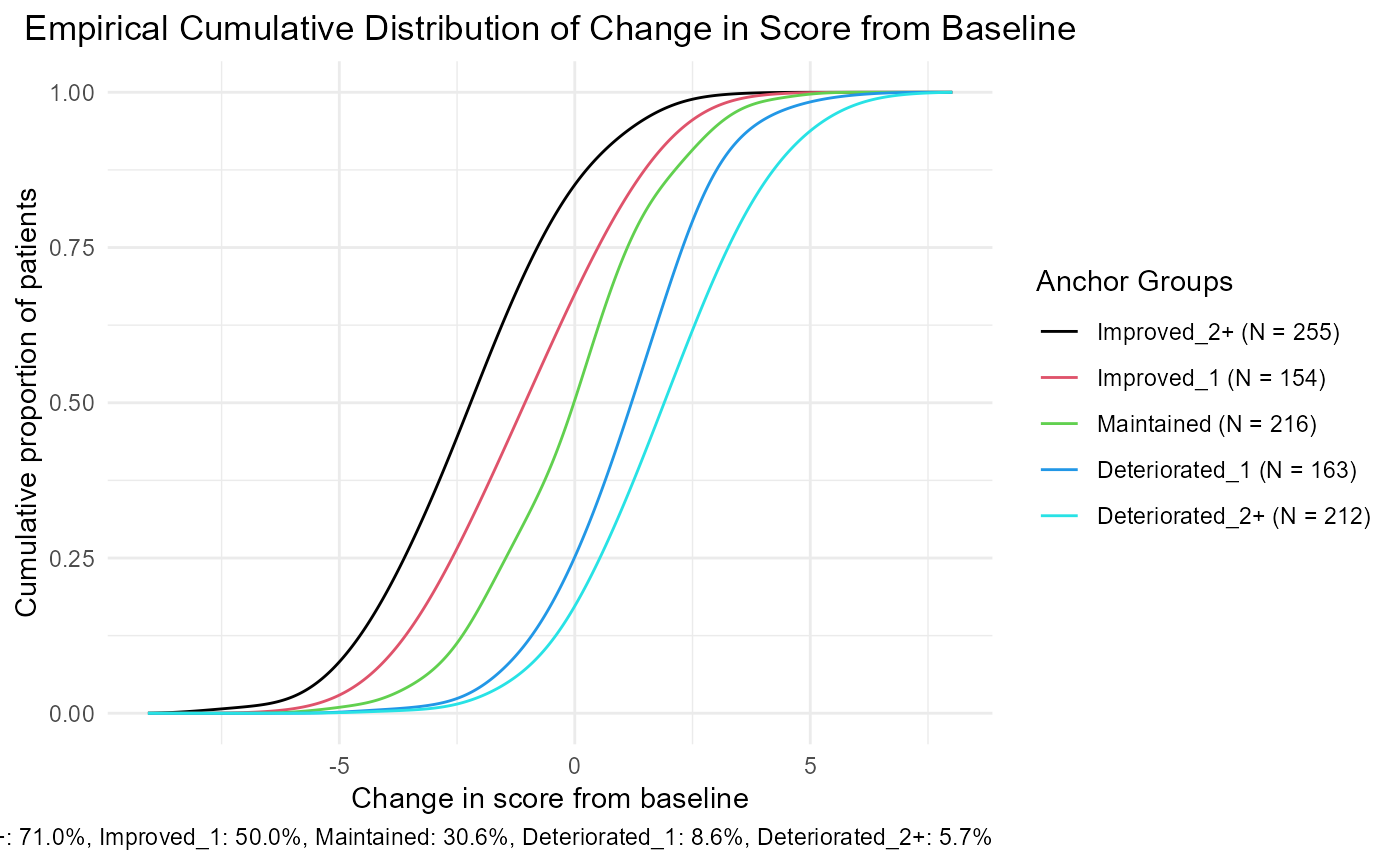
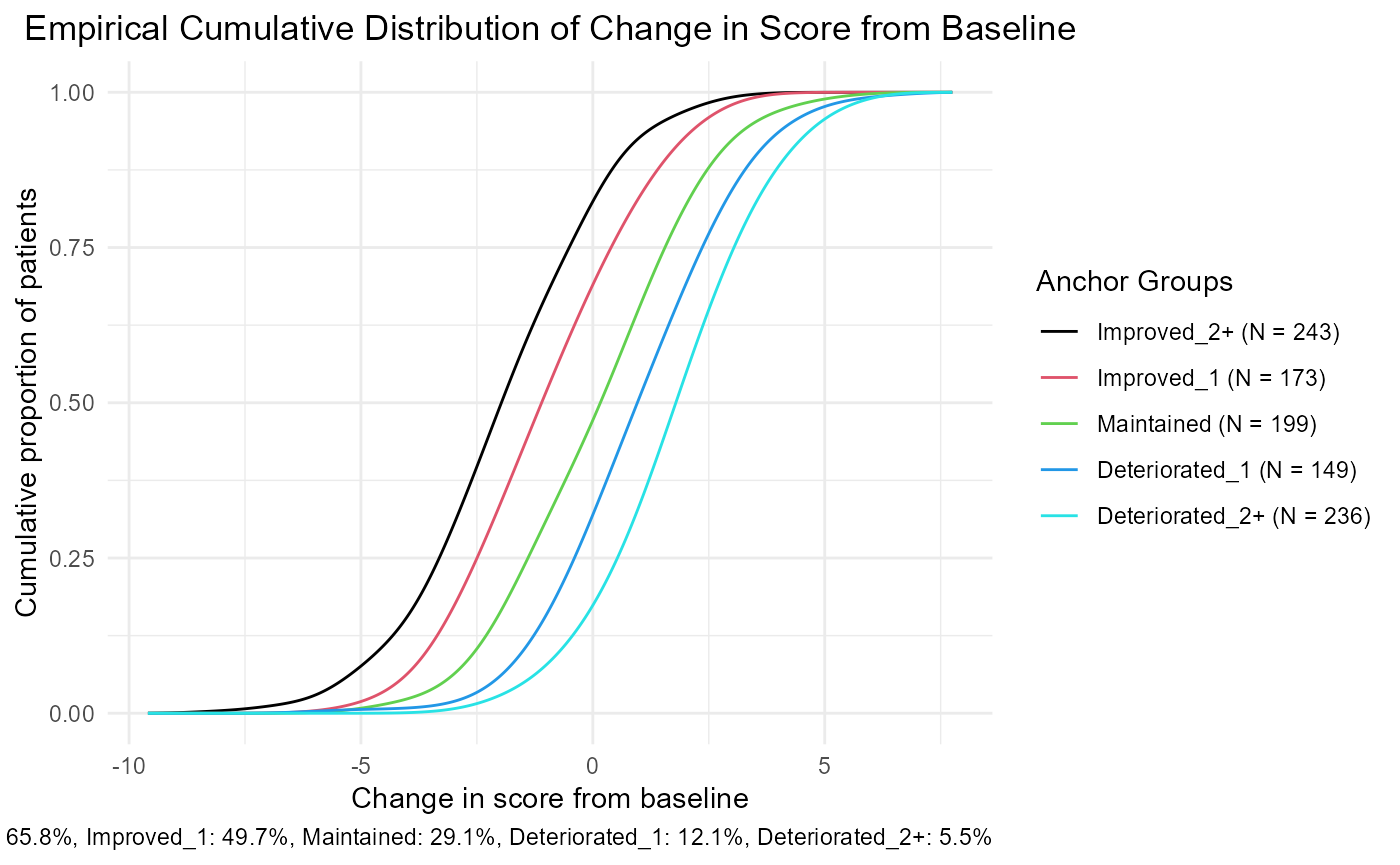
Add files via upload

diff --git a/docs/articles/Vignette_eCDF_ePDF.html b/docs/articles/Vignette_eCDF_ePDF.html
@@ -186,12 +186,12 @@
 <code class="sourceCode R"><span class="fu"><a href="https://rdrr.io/r/base/table.html">table</a></span><span class="op">(</span><span class="va">dat</span><span class="op">$</span><span class="va">anchor.groups</span><span class="op">)</span>
 <span class="co">#&gt; </span>
 <span class="co">#&gt;     Improved_2+      Improved_1      Maintained  Deteriorated_1 Deteriorated_2+ </span>
-<span class="co">#&gt;             671             512            1717             513             587</span>
+<span class="co">#&gt;             660             506            1714             491             629</span>
 <span class="va">tmp</span> <span class="op">&lt;-</span> <span class="fu"><a href="https://rdrr.io/r/base/grep.html">gsub</a></span><span class="op">(</span>pattern <span class="op">=</span> <span class="st">'Improved_2+'</span>, replacement <span class="op">=</span> <span class="fu"><a href="https://rdrr.io/r/base/paste.html">paste0</a></span><span class="op">(</span><span class="st">"Improved \u2265 2"</span><span class="op">)</span>, x <span class="op">=</span> <span class="va">dat</span><span class="op">$</span><span class="va">anchor.groups</span> <span class="op">)</span>
 <span class="fu"><a href="https://rdrr.io/r/base/table.html">table</a></span><span class="op">(</span><span class="va">tmp</span><span class="op">)</span>
 <span class="co">#&gt; tmp</span>
 <span class="co">#&gt;  Deteriorated_1 Deteriorated_2+   Improved = 2+      Improved_1      Maintained </span>
-<span class="co">#&gt;             513             587             671             512            1717</span>
+<span class="co">#&gt;             491             629             660             506            1714</span>
 
 <span class="co">#dat$anchor.groups &lt;- gsub(pattern = 'Improved_2+', replacement = paste0("Improved \u2265 2"), x = dat$anchor.groups )</span>
 

diff --git a/docs/reference/sim_pro_dat.html b/docs/reference/sim_pro_dat.html
@@ -134,8 +134,7 @@
   polychor.struc <span class='op'>=</span> <span class='st'>"ar1"</span>,
   polychor.value <span class='op'>=</span> <span class='fl'>0.4</span>,
   number.of.anchor.groups <span class='op'>=</span> <span class='fl'>5</span>,
-  Beta.PGIS.delta <span class='op'>=</span> <span class='fl'>1</span>,
-  Beta.PGIS.bl <span class='op'>=</span> <span class='fl'>1</span>,
+  Beta.PRO <span class='op'>=</span> <span class='cn'>NULL</span>,
   corr <span class='op'>=</span> <span class='st'>"ar1"</span>,
   cor.value <span class='op'>=</span> <span class='fl'>0.8</span>,
   var.values <span class='op'>=</span> <span class='fl'>2</span>,
@@ -173,14 +172,6 @@ that will be the final value of the interaction parameters, default is all(Beta 
     <tr>
       <th>polychor.value</th>
       <td><p>anchor generation - Pass to <code><a href='sim_dat_ord.html'>sim_dat_ord()</a></code>: numeric, the first corr in ar1, the corr in cs option</p></td>
-    </tr>
-    <tr>
-      <th>Beta.PGIS.delta</th>
-      <td><p>PRO data generation, the Beta value for the PGIS delta variable</p></td>
-    </tr>
-    <tr>
-      <th>Beta.PGIS.bl</th>
-      <td><p>PRO data generation, the Beta value for the PGIS baseline variable</p></td>
     </tr>
     <tr>
       <th>corr</th>
